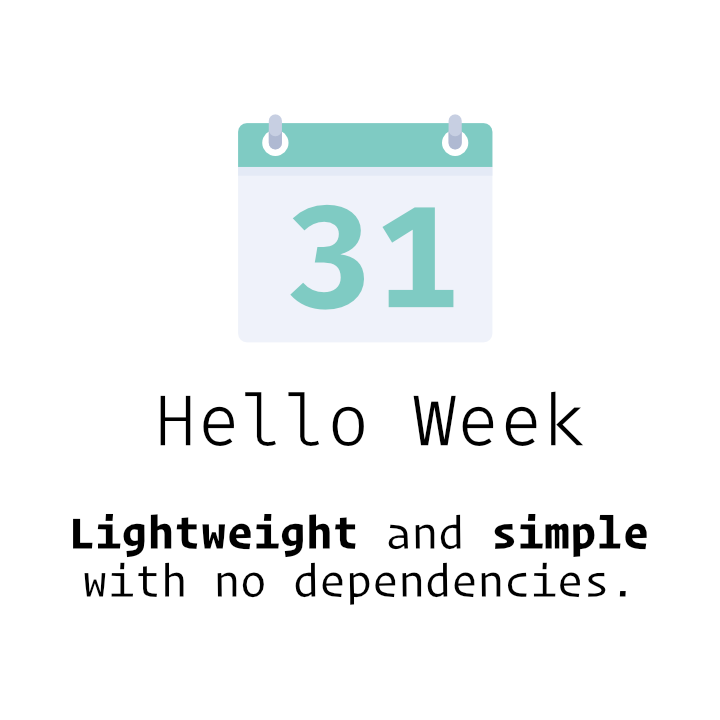
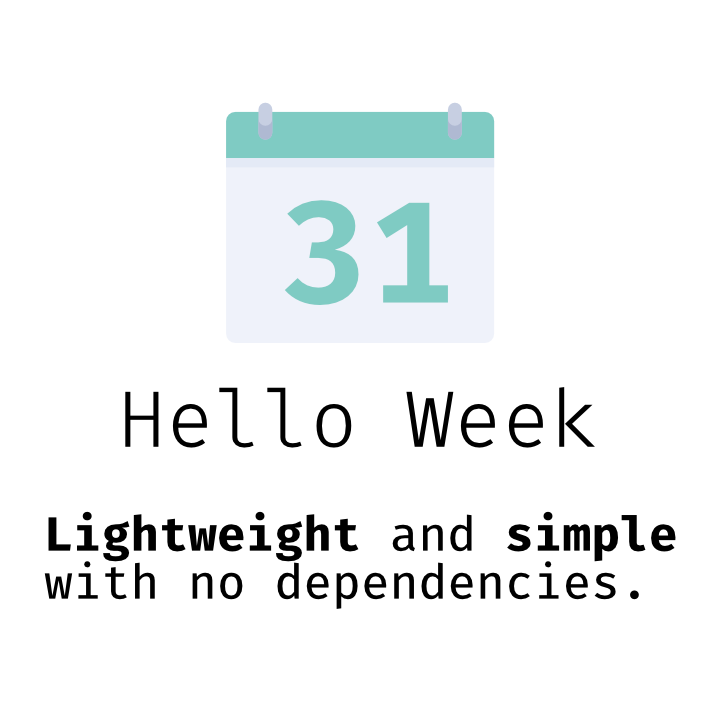
- Updated index view.

diff --git a/index.html b/index.html
@@ -50,8 +50,8 @@
 		}
 
 		h1 {
-			font-size: 2.2rem;
-			font-weight: 400;
+			font-size: 3rem;
+			font-weight: 700;
 			color: #3e3e3e;
 			text-align: center;
 		}
@@ -120,7 +120,6 @@
 			margin: auto;
 			text-align: center;
 		}
-
 
 		.section--options {
 			background-color: #fff;
@@ -213,7 +212,7 @@
 	</style>
 	<section class="section section--hero">
 		<div class="container">
-			<h1>📅<br>Hello Week</h1>
+			<h1>Hello Week</h1>
 			<p>Lightweight and simple datepicker in <strong>Javascript</strong> with no dependencies</p>
 
 			<div class="demo-download">
